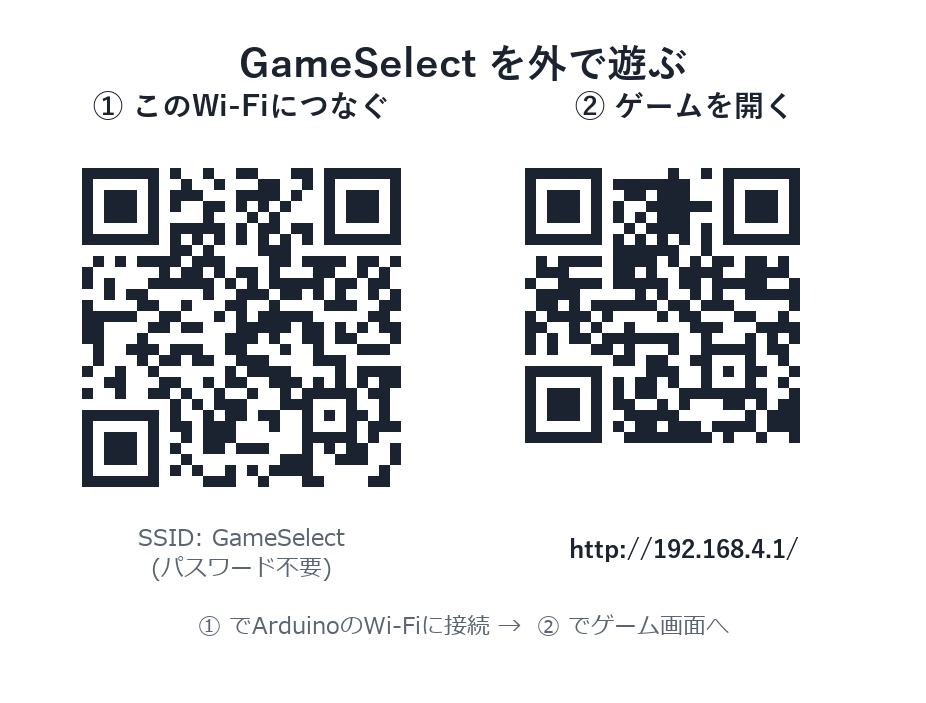
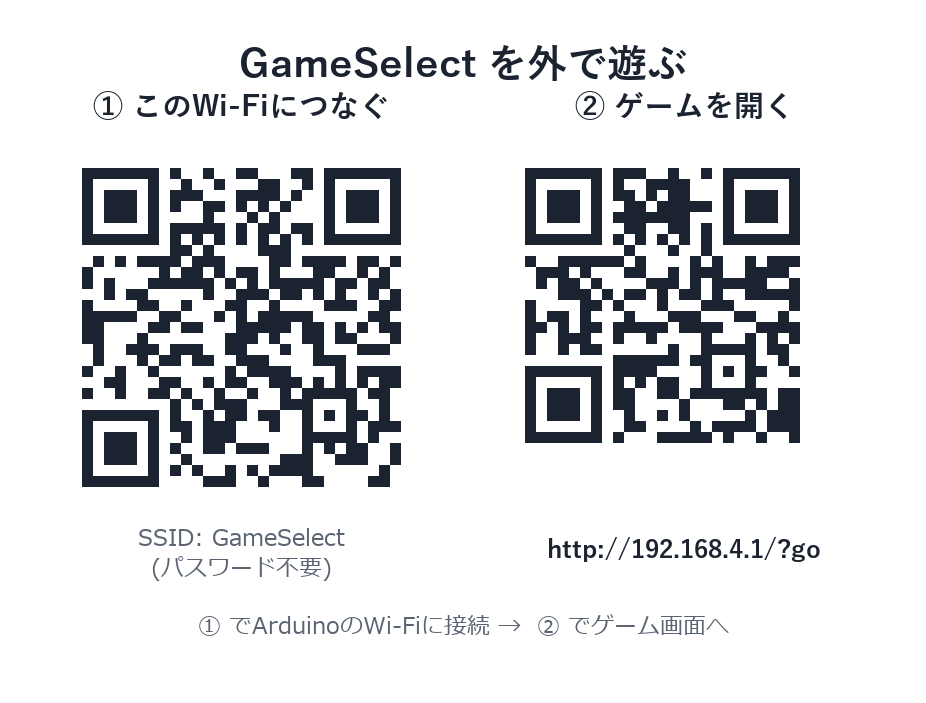
外プレイ堅牢化: OLEDにアドレス表示／キャッシュ回避(?go)／DNS強化
- OLED: QRの右に「接続先＋開くアドレス(http付き)」を表示。自動で開かない端末でも手入力で到達できる
  （外=Wi-Fi名+http://192.168.4.1/?go、家=http://実IP。10文字折返しで128x64に収める）
- GameSelect: ?付きURL(/?go)でも選択画面を返す＝古いRPGキャッシュを確実に回避。キャプティブDNSを取りこぼし無しに強化
- 3スケッチ: 配信に Cache-Control: no-store（古い版をキャッシュさせない）
- 外プレイ用QR(qr_outdoor.png)の②を http://192.168.4.1/?go に更新。READMEを現実的な手順(①接続→②開く)に修正

実コンパイル: MazeGame 36% / RPG_Quest 66% / GameSelect 73%

diff --git a/README.md b/README.md
@@ -74,13 +74,14 @@ flowchart LR
 ### 手順（外）
 1. **`GameSelect/GameSelect.ino` を書き込む**。電源はUSBモバイルバッテリーをUSB-Cに挿すだけ。
 2. **ジョイスティックのボタンを押しながらリセット**（＝強制AP起動）。OLEDに `Wi-Fi: GameSelect` ＋ QR が表示される。
-3. スマホで**そのQRを読む** → パスワード不要で「GameSelect」に接続 → **自動でゲーム選択画面が開く**（キャプティブポータル）→ 迷路 / RPG を選ぶ。
+3. スマホで **①のQR** を読む → パスワード不要で「GameSelect」に接続。
+4. **②のQR（または `192.168.4.1/?go`）** を読む／開く → **ゲーム選択画面**（迷路 / RPG を選ぶ）。
 
 <p align="center">
-  <img src="GameSelect/qr_outdoor.png" width="520" alt="外プレイ用QR：Wi-Fiに接続すると自動でゲームが開く">
+  <img src="GameSelect/qr_outdoor.png" width="520" alt="外プレイ用QR：①Wi-Fi接続 ②選択画面を開く">
 </p>
 
-> - **仕組み**：AP中はスマホの「インターネット接続確認」を横取りして、選択画面を自動表示します。
-> - **iPhone**は「インターネット未接続」警告 → **「このまま接続」** を選ぶ。
-> - **近くに家のWi-Fiがあるとスマホがそちらへ戻る**ので、必ず**屋外（競合の無い場所）**で試してください。
-> - 自動で開かない端末では、接続後にブラウザで **`192.168.4.1`** を開けば選択画面が出ます（確実な保険）。
+> - **自動で開くこともあります**（キャプティブポータル）：iPhoneは接続直後に自動表示、Androidは「ログイン／サインイン」通知をタップ。ただし**端末・タイミング依存で不安定**なので、**確実なのは④（②QR か `192.168.4.1/?go`）**です。
+> - iPhoneの「インターネット未接続」警告は **「このまま接続」** を選ぶ。
+> - **近くに家のWi-Fiがあるとスマホがそちらへ戻る**ので、必ず**屋外**で。
+> - OLEDに **`Wi-Fi: GameSelect`** と出ていればGameSelectが動いています（`RPG_Quest` 等なら別スケッチを焼いています）。
